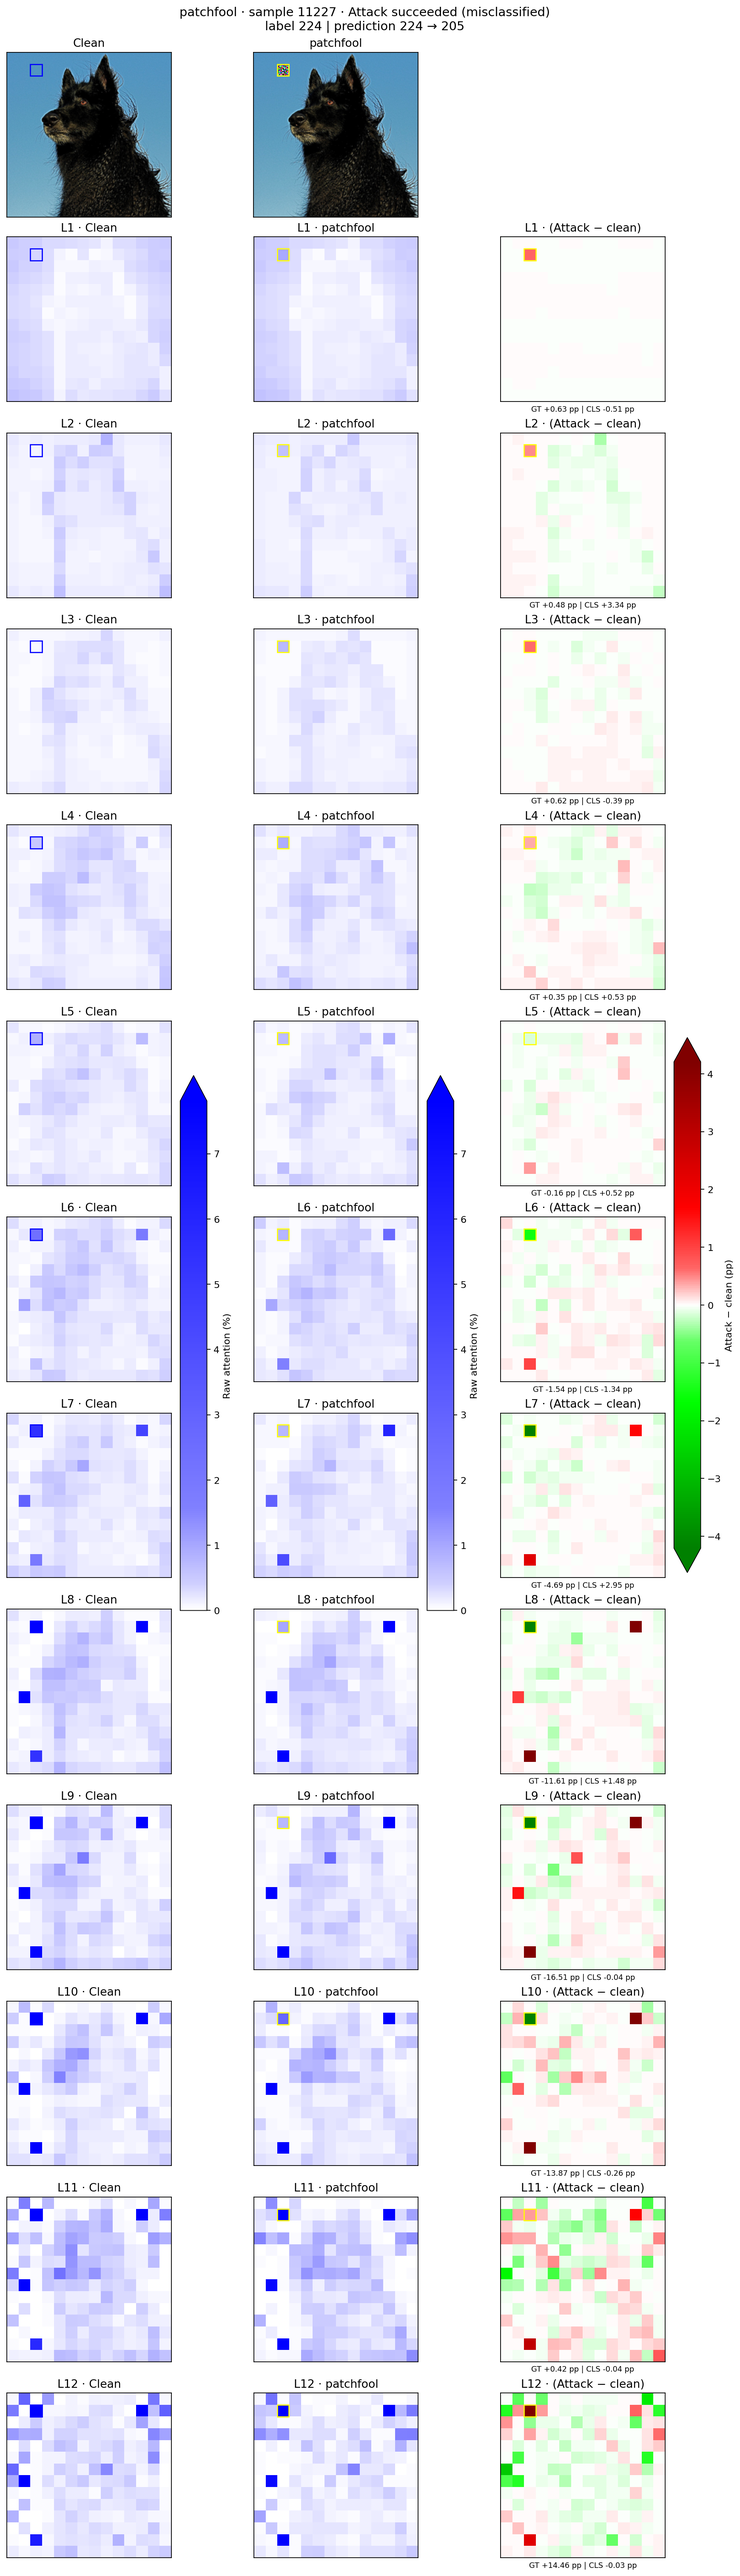
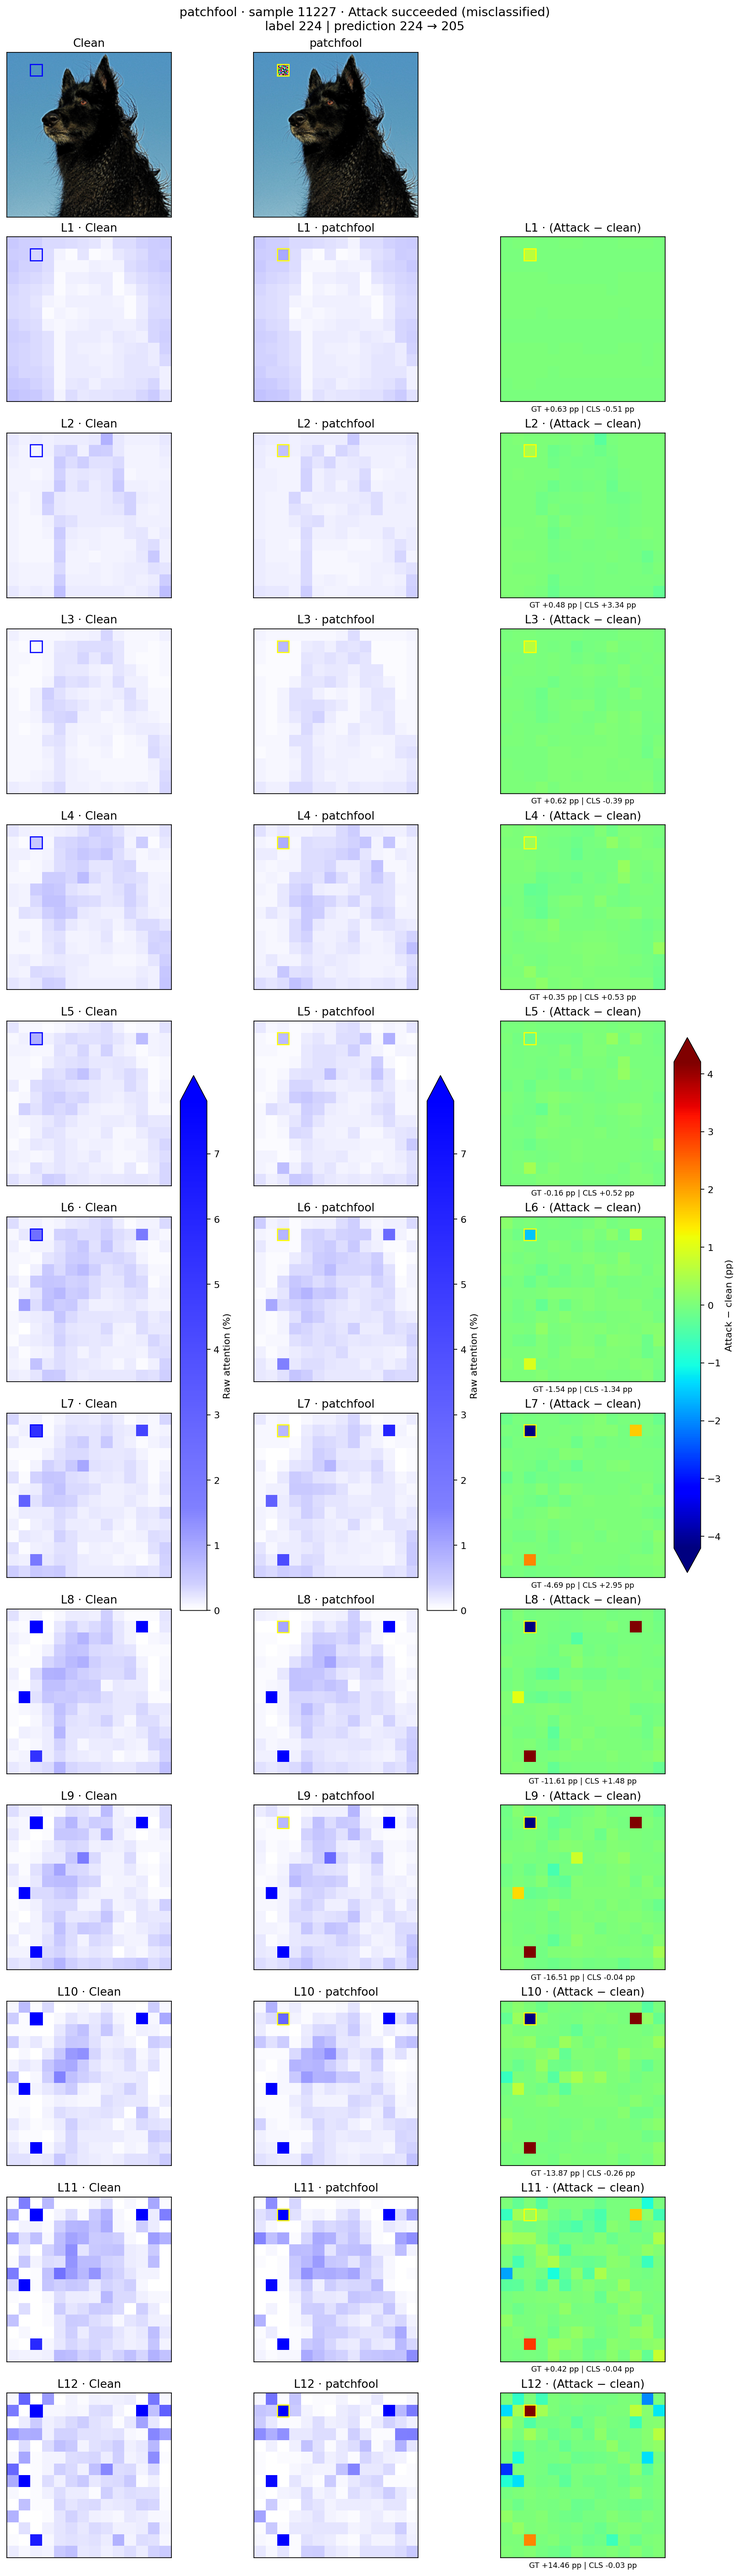
Difference heatmap: conventional rainbow (jet), blue=lost, green=0, red=more attention

Changed region(s): [[0.6517, 0.0937, 0.9621, 0.9997]]

diff --git a/01_patch_attack_detector/experiments/characterization/02_compare_attention_success_failure.py b/01_patch_attack_detector/experiments/characterization/02_compare_attention_success_failure.py
@@ -28,15 +28,10 @@ OUTCOMES = {'attack_success': (1, 'Attack succeeded (misclassified)'),
             'attack_fail': (0, 'Attack failed (still correct)')}
 # 방어 관점에서 공격 성공=critical, 실패=good인 상태 색 사용 -- 이름의 의미와 색이 서로 확인해준다.
 OUTCOME_COLORS = {'attack_success': '#d03b3b', 'attack_fail': '#0ca30c'}
-# 양 끝이 검정으로 가면 원본/공격/차이가 다 어두워져서 구분이 안 된다 -- 끝 색을 원색으로 둔다.
-# raw attention: 흰색 -> 순수 파랑. 차이: 감소=연초록->밝은 초록->진한 초록(#008000), 0=흰색, 증가(attention이 더 몰림)=순수 빨강.
+# raw attention: 흰색 -> 순수 파랑(작은 값도 흰색과 구분되게 곧바로 연파랑으로 건너뛴다).
+# 차이: 히트맵에서 보편적인 무지개(jet) -- 파랑=감소, 초록=변화 없음(0), 빨강=attention이 더 몰림.
 SEQUENTIAL = LinearSegmentedColormap.from_list('white_blue', [(0.0, '#ffffff'), (0.05, '#d0d0ff'), (0.2, '#8080ff'), (1.0, '#0000ff')])
-# 0은 흰색. 흰색에서 바로 연한 초록/연한 빨강으로 건너뛴 뒤 원색으로 진해진다 -- 선형으로
-# 흰색->원색을 이으면 작은 변화가 흰색과 구분이 안 된다. 값 스케일은 선형(눈금 간격 균일)으로 두고
-# 작은 값을 보이게 하는 건 색 램프 쪽에서 한다.
-DIVERGING = LinearSegmentedColormap.from_list('green_white_red', [
-    (0.0, '#008000'), (0.3, '#00ff00'), (0.425, '#66ff66'), (0.475, '#ccffcc'), (0.5, '#ffffff'),
-    (0.525, '#ffcccc'), (0.575, '#ff6666'), (0.7, '#ff0000'), (1.0, '#800000')])
+DIVERGING = plt.get_cmap('jet')
 
 METRICS = {'tv': 'Total variation', 'gt_delta': 'Attention change in GT region (pp)'}
 
@@ -371,9 +366,9 @@ def main():
         '(not renormalized away). GT patches (any pixel actually changed) are outlined with '
         'ground_truth/draw_boxes.py\'s colors, reused directly: blue on Clean panels, yellow on '
         'attacked/difference panels.\n'
-        '- Raw attention: white -> pure blue. Attack-minus-clean: pure green (attention lost) -> '
-        'white (no change) -> pure red (attention concentrated more). Ends are pure colors so panels stay '
-        'distinguishable at the extremes; the color ramps jump quickly off white so small values stay visible, while the colorbars are linear with evenly spaced ticks. Both '
+        '- Raw attention: white -> pure blue. Attack-minus-clean: the conventional rainbow (jet) — '
+        'blue = attention lost, green = no change (0), red = attention concentrated more. The colorbars '
+        'are linear with evenly spaced ticks. Both '
         'use a 99.5th-percentile cap (not the true max) shared across every block of a given '
         'attack, so a single extreme sample or patch can\'t blank out the rest, while the real '
         'block-to-block story (near-zero early on, then increasingly concentrated) still shows. '

diff --git a/01_patch_attack_detector/results/characterization/README.md b/01_patch_attack_detector/results/characterization/README.md
@@ -4,7 +4,7 @@ Generated from run `/home/jooyumm/ViT_robust/01_patch_attack_detector/results/ch
 
 - One folder per attack (`patchfool/`, `lavan/`), no outcome subfolders — the outcome is in the filename instead: `ex_attack_success_*` (attack succeeded, image misclassified) vs. `ex_attack_fail_*` (attack failed, image still correct). These names describe the ATTACK's outcome, not a pipeline failure.
 - Maps show CLS-query attention to each patch key, head-averaged, CLS key mass kept (not renormalized away). GT patches (any pixel actually changed) are outlined with ground_truth/draw_boxes.py's colors, reused directly: blue on Clean panels, yellow on attacked/difference panels.
-- Raw attention: white -> pure blue. Attack-minus-clean: pure green (attention lost) -> white (no change) -> pure red (attention concentrated more). Ends are pure colors so panels stay distinguishable at the extremes; the color ramps jump quickly off white so small values stay visible, while the colorbars are linear with evenly spaced ticks. Both use a 99.5th-percentile cap (not the true max) shared across every block of a given attack, so a single extreme sample or patch can't blank out the rest, while the real block-to-block story (near-zero early on, then increasingly concentrated) still shows. Values above the cap are drawn at the top color, marked by the colorbar's arrow, not silently redrawn.
+- Raw attention: white -> pure blue. Attack-minus-clean: the conventional rainbow (jet) — blue = attention lost, green = no change (0), red = attention concentrated more. The colorbars are linear with evenly spaced ticks. Both use a 99.5th-percentile cap (not the true max) shared across every block of a given attack, so a single extreme sample or patch can't blank out the rest, while the real block-to-block story (near-zero early on, then increasingly concentrated) still shows. Values above the cap are drawn at the top color, marked by the colorbar's arrow, not silently redrawn.
 - GT Δ: attention change summed over GT patches (raw, not renormalized). TV: 0.5 × sum(|attack - clean|) over all 197 tokens including CLS.
 - The layer table uses the *median* over all clean-correct samples; flagged blocks (⚠) are exploratory candidates by descriptive statistics, not a significance test or causal claim.
 - No CSVs here by design — the table above is the numeric result worth keeping. Per-sample/per-head raw numbers are recomputable from `/home/jooyumm/ViT_robust/01_patch_attack_detector/results/characterization/attention_comparison/run_s42/data/` with `compute_metrics()` in this folder's script if ever needed.
